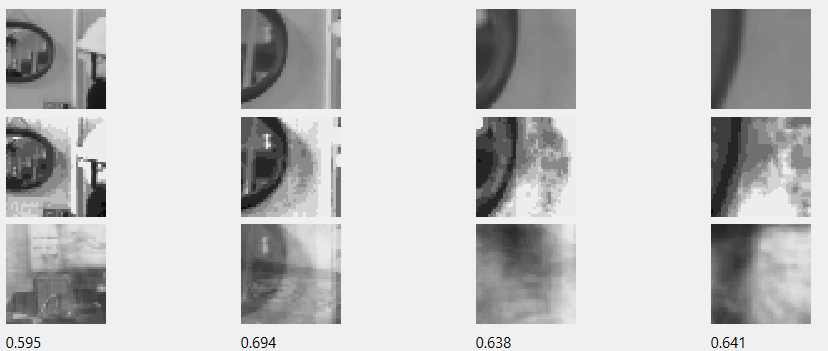
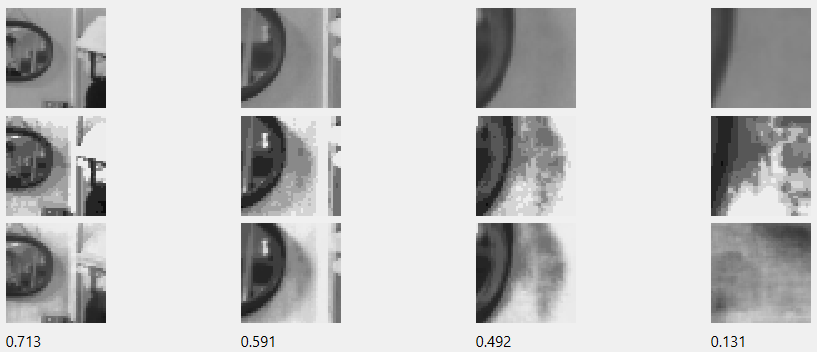
model 1 rerun

diff --git a/win006.cpp b/win006.cpp
@@ -84,6 +84,7 @@ Win006::Win006(const std::string& configA,
 		_actLoggingFactor = ARGS_INT(logging_action_factor);
 		_interval = (std::chrono::milliseconds)(ARGS_INT_DEF(interval,1000));	
 		_actWarning = ARGS_BOOL(warning_action);
+		_actLoggingSlice = ARGS_BOOL(logging_action_slice);
 		_mode = ARGS_STRING_DEF(mode, "mode001");
 		_modeLogging = ARGS_BOOL(logging_mode);
 		_modeLoggingFactor = ARGS_INT(logging_mode_factor); 
@@ -446,10 +447,10 @@ void Win006::act()
 					double lnwmax = std::log(_induceParameters.wmax);
 					double likelihood = (std::log(sliceSize) - std::log(parentSize) + lnwmax)/lnwmax;
 					likelihoods.push_back(likelihood);
-					// if (_actLogging)
-					// {
-						// LOG "actor\tslice: " << std::hex << slice << "\tsize: "  << std::dec << sliceSize << "\tparent: " << parentSize << "\tlikelihood: " << std::fixed << std::setprecision(6) << likelihood << std::defaultfloat << "\trep size: " << (reps.count(slice) ? reps[slice].count : 0) UNLOG
-					// }
+					if (_actLoggingSlice)
+					{
+						LOG "actor\tslice: " << std::hex << slice << "\tsize: "  << std::dec << sliceSize << "\tparent: " << parentSize << "\tlikelihood: " << std::fixed << std::setprecision(6) << likelihood << std::defaultfloat /* << "\trep size: " << (reps.count(slice) ? reps[slice].count : 0) */ UNLOG
+					}
 				}
 				if (!_induceNot)
 				{

diff --git a/win006.h b/win006.h
@@ -44,6 +44,7 @@ private:
 	bool _actLogging;	
 	std::size_t _actLoggingFactor;
 	bool _actWarning;
+	bool _actLoggingSlice;	
     std::chrono::milliseconds _interval;
 	std::string _mode;
 	bool _modeLogging;

diff --git a/README.md b/README.md
@@ -473,9 +473,10 @@ Now we can browse *model* 1 by setting the `no_induce` flag in `actor.json` -
 ```
 {
 	"model_initial" : "model001",
-	"interval" : 250,
+	"interval" : 1000,
 	"scales" : [1.0, 0.5, 0.25, 0.125],
-	"no_induce" : true
+	"no_induce" : true,
+	"logging_action_slice" : true
 }
 ```
 and then running with the following command line arguments -
@@ -486,9 +487,9 @@ If we pause at 20 seconds of the first film as before, we see that the four repr
 
 ![actor001_006](images/actor001_006.png)
 
-The second (half scale) representation appears to be the closest, with the others roughly matching the areas of light and dark. All have high *likelihoods*. 
+The first three representations are close to their corresponding records. These three have high *likelihoods*. 
 
-We can navigate around using the mouse or the arrow keys. The space bar will re-center the focus. We can easily navigate to areas of low *likelihoods*, for example if we hit the up arrow several times to (0.5,0.463) we have -
+We can navigate around using the mouse or the arrow keys. The space bar will re-center the focus. We can easily navigate to areas of low *likelihoods*, for example if we hit the right arrow several times to (0.531,0.5) we have -
 
 ![actor001_007](images/actor001_007.png)
 
@@ -500,9 +501,11 @@ This reminds us of the vastness of the *volume* of the *substrate* compared to t
 
 This table summarises the results from the `actor001` *models* -
 
+TODO
+
 model|scales|frame position|events|fuds|fuds/sz/thrshld|median diagonal|max diagonal|lagging fuds
 ---|---|---|---|---|---|---|---|---
-model001|1.0, 0.5, 0.25, 0.125|centred|720,000|2823|0.784167|31.5714|41.1581|11
+model001|1.0, 0.5, 0.25, 0.125|centred|720,000|2781|0.7725|31.7208|41.5523|7
 model005|1.0|1 centred|180,000|684|0.761591|33.4245|41.2544|0
 model006|0.5|1 centred|180,000|697|0.775099|31.6855|41.1768|0
 model007|0.25|1 centred|180,000|698|0.776233|31.458|40.8568|0
